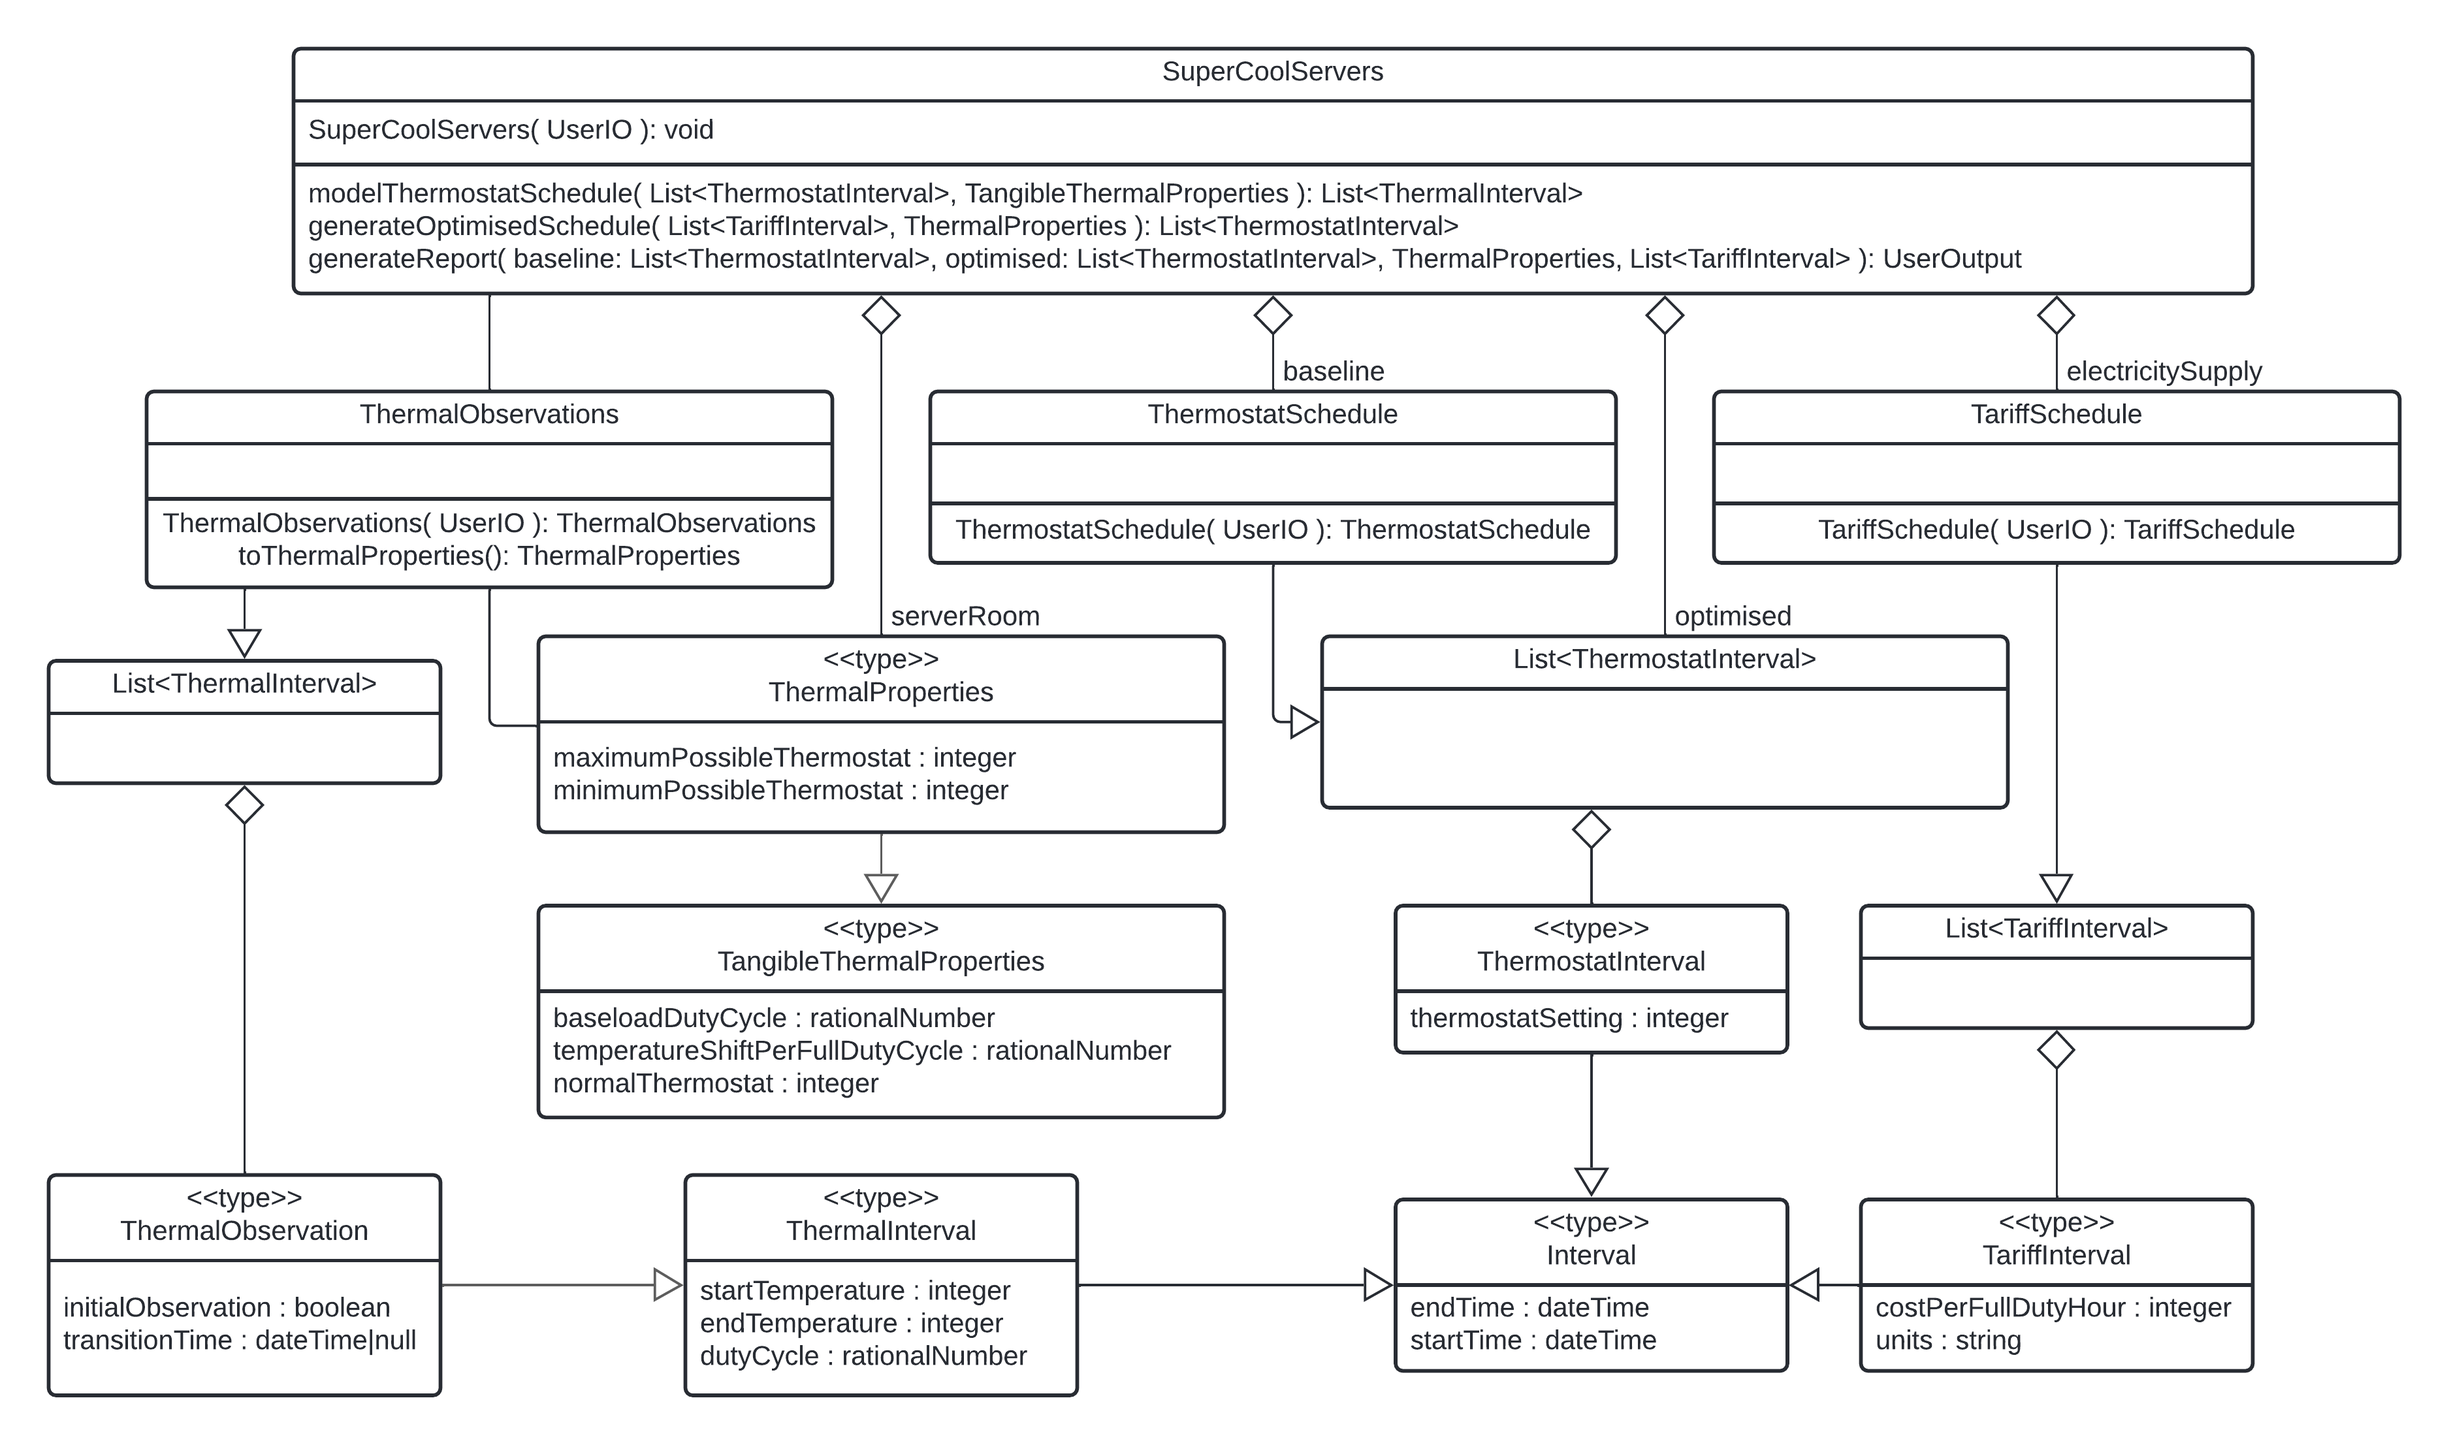
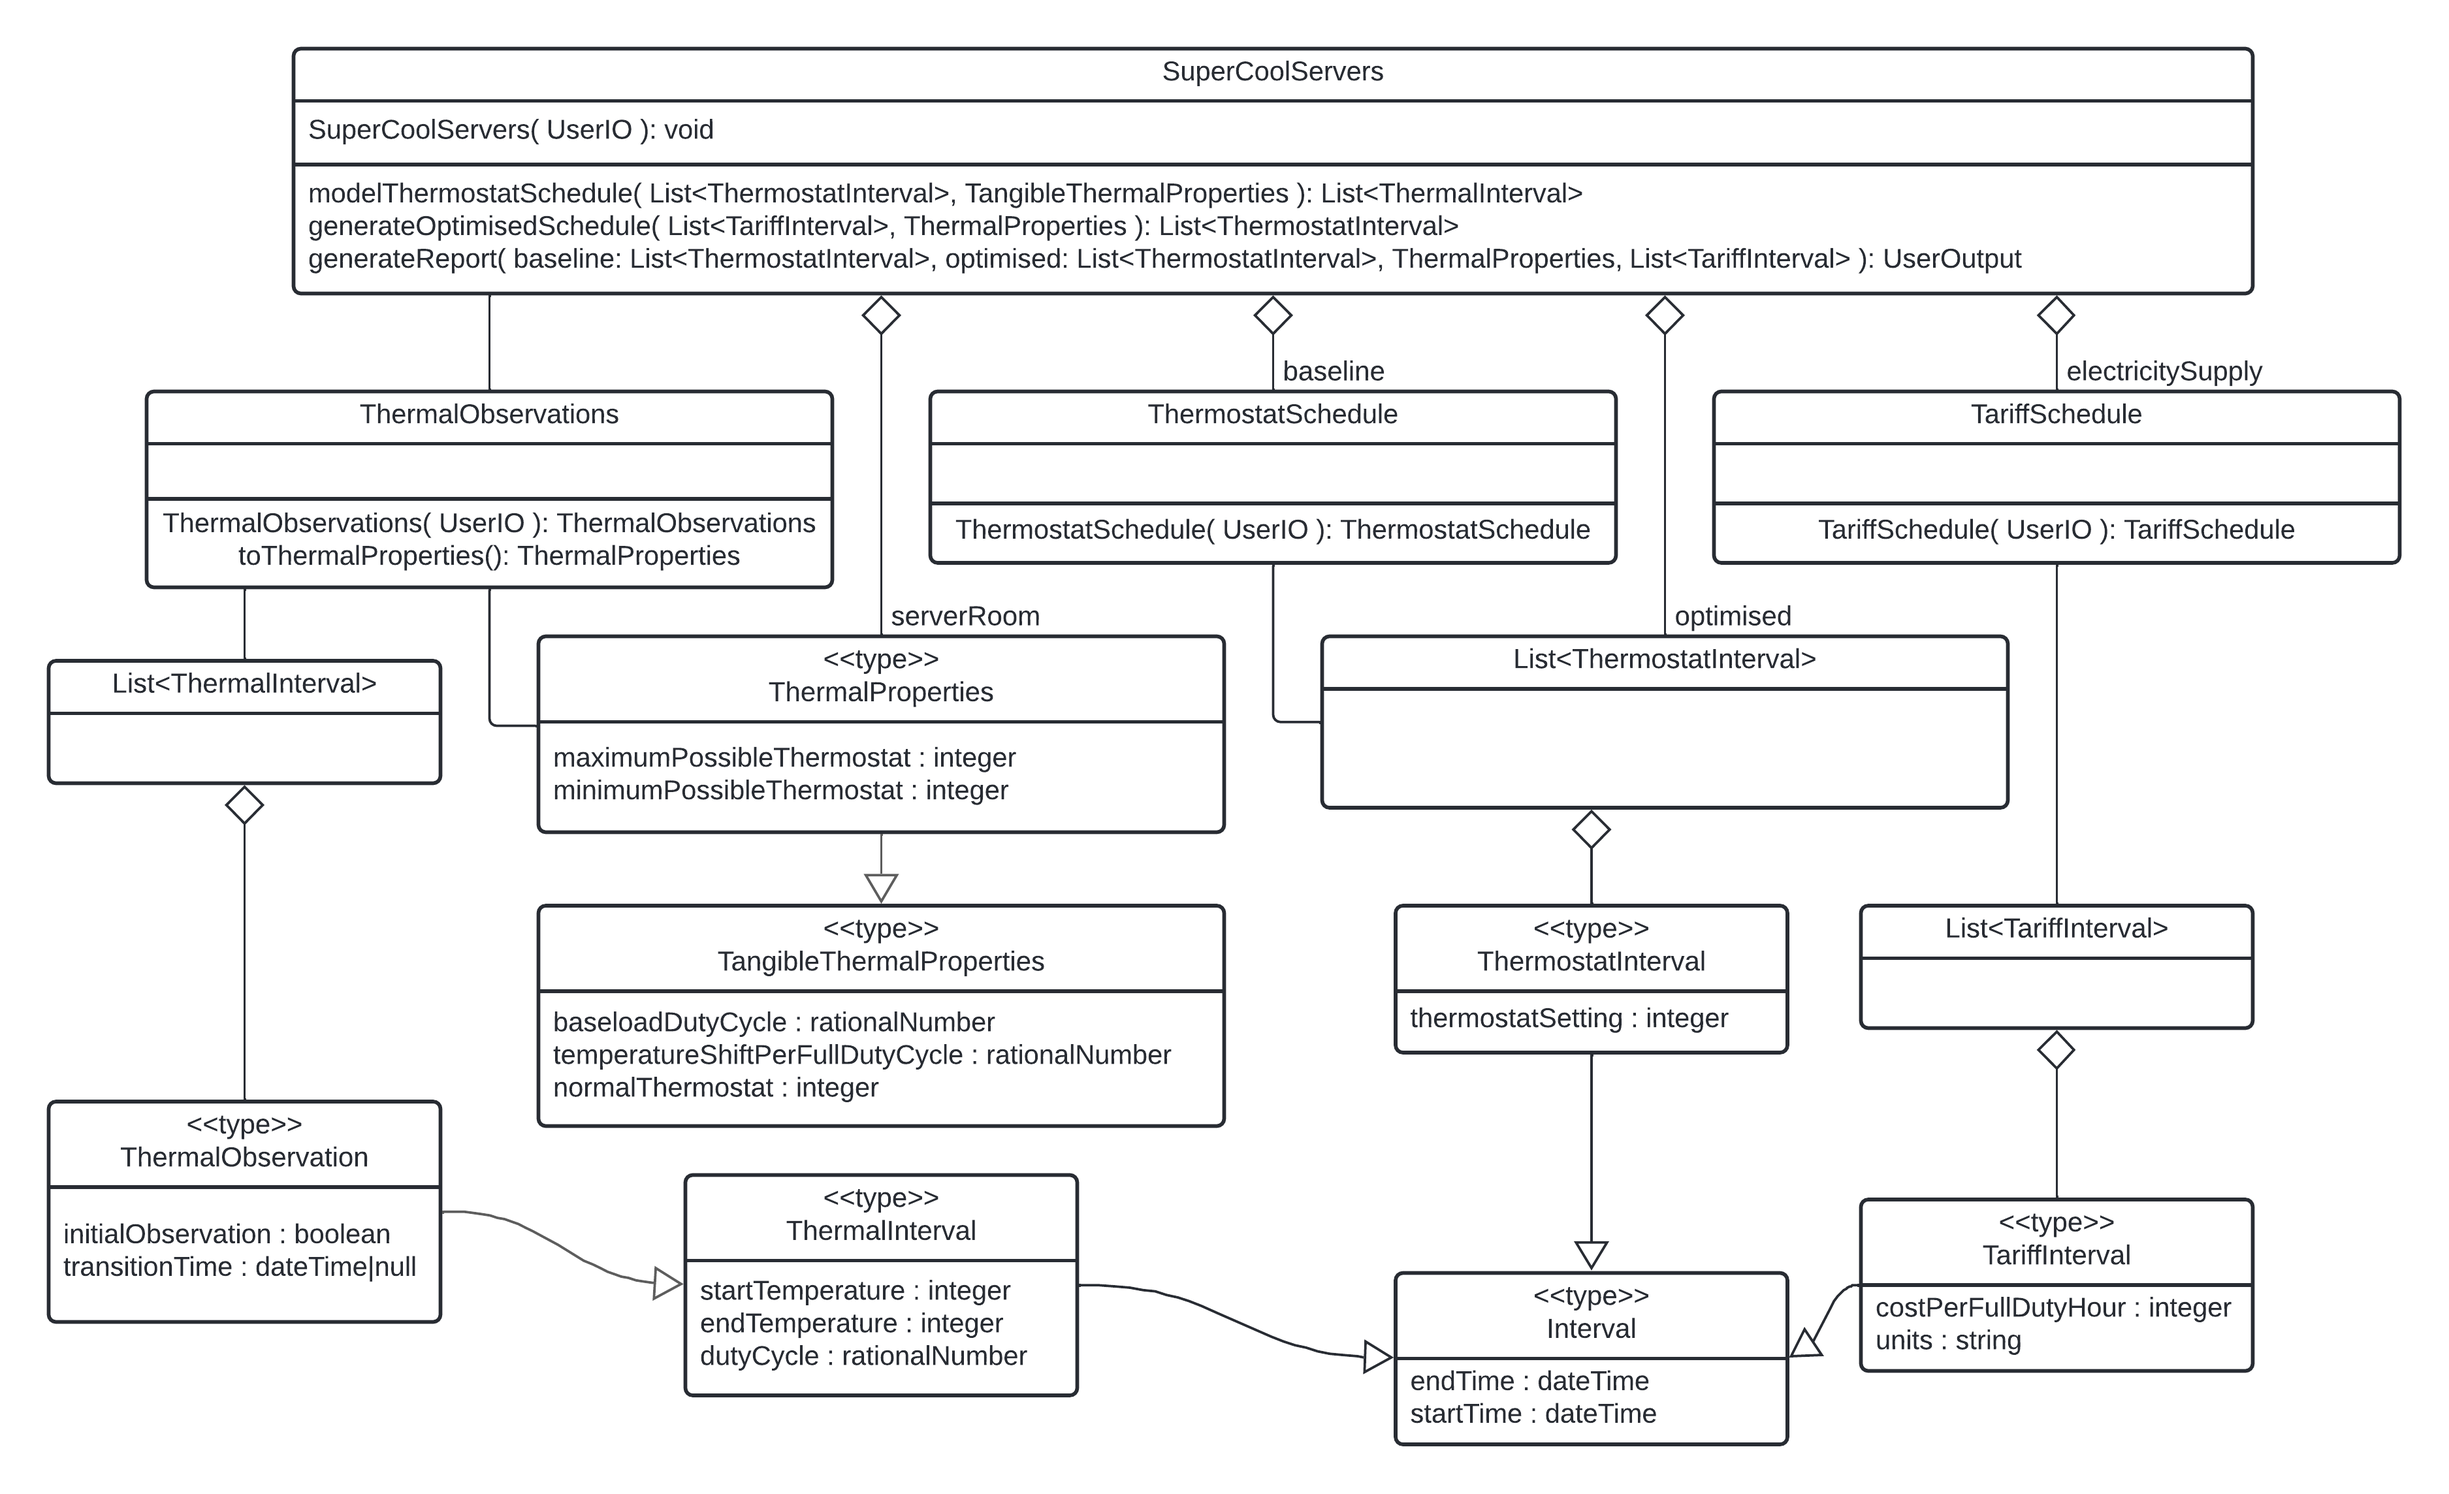
Update documentation
* Split 'customer' from 'technician' to distinguish value from cost
* Add improvements to the schedule algorithm to the backlog
* Update the architecture to add 'notification' patterns
* Update diagrams

diff --git a/README.md b/README.md
@@ -81,7 +81,8 @@ These stories will move in step with the code that implements them and reside in
 
 #### Backlog
 
-* A technician should be able to model rooms with significant passive cooling.
+* A customer should benefit from a sophisticated schedule optimisation algorithm.
+* A customer should be able to model rooms with significant passive cooling.
 * A technician could integrate this with live data from weather forecasts.
 * A technician could integrate this with live data from electricity tariffs.
 * A developer could use this model and algorithm in a smart thermostat.
@@ -96,7 +97,7 @@ These stories will move in step with the code that implements them and reside in
 
 #### Done
 
-* The system must be able to model the thermal changes of a room.
+* A customer must receive the predicted thermal changes of a room.
 * A technician must be able to gather thermal observations of a server room.
 * A technician must be able to input a baseline thermostat schedule.
 * A technician must be able to input an electricity tariff schedule.
@@ -105,7 +106,7 @@ These stories will move in step with the code that implements them and reside in
 #### Qualitative
 
 * A technician could use this system without installation.
-* A technician should be able to understand how the system processes data.
+* A customer should be able to understand how the system processes data.
 * A technician should be able to use this system despite accessibility challenges.
 * A technician could use this system on a low-resolution touchscreen interface, such as a smartphone.
 
@@ -115,7 +116,7 @@ These stories will move in step with the code that implements them and reside in
 
 Figure 2.2.1 - Activity diagram showing data flow for optimising a schedule and presenting a report.
 
-The core workflow of this system suits a data flow architecture.
+The core workflow of this system suits a notification and data flow architecture.
 The workflow has several data gathering stages that favour compartmentalisation as user interfaces that gather the underlying data.
 Each stage requires no intervention from other components and emits strongly typed updates.
 By implementing these as components we allow each to encapsulate their user interface and bound their complexity.
@@ -287,10 +288,11 @@ This estimate puts a medium prioritisation on modelling passive cooling.
 
 ### 2.7 - Glossary
 
-| Term          | Definition                                                                                                                        |
-| ------------- | --------------------------------------------------------------------------------------------------------------------------------- | 
-| Technician    | An individual who maintains the environmental conditions of a server room.                                                        |
-| <<type>>      | An abstract data structure, like an interface, except it asserts that objects shall possess certain data types instead of methods |
+| Term          | Type          | Definition                                                                                                                        |
+| ------------- | ------------- | --------------------------------------------------------------------------------------------------------------------------------- | 
+| Technician    | Stakeholder   | An individual who maintains the environmental conditions of a server room; they usually surface usability concerns.               |
+| Customer      | Stakeholder   | An organisation that may decide to adopt thermostat recommendations based on the report; they usually surfaces utility concerns.  |
+| <<type>>      | Software term | An abstract data structure, like an interface, except it asserts that objects shall possess certain data types instead of methods |
 
 ## 3 - Literature
 
